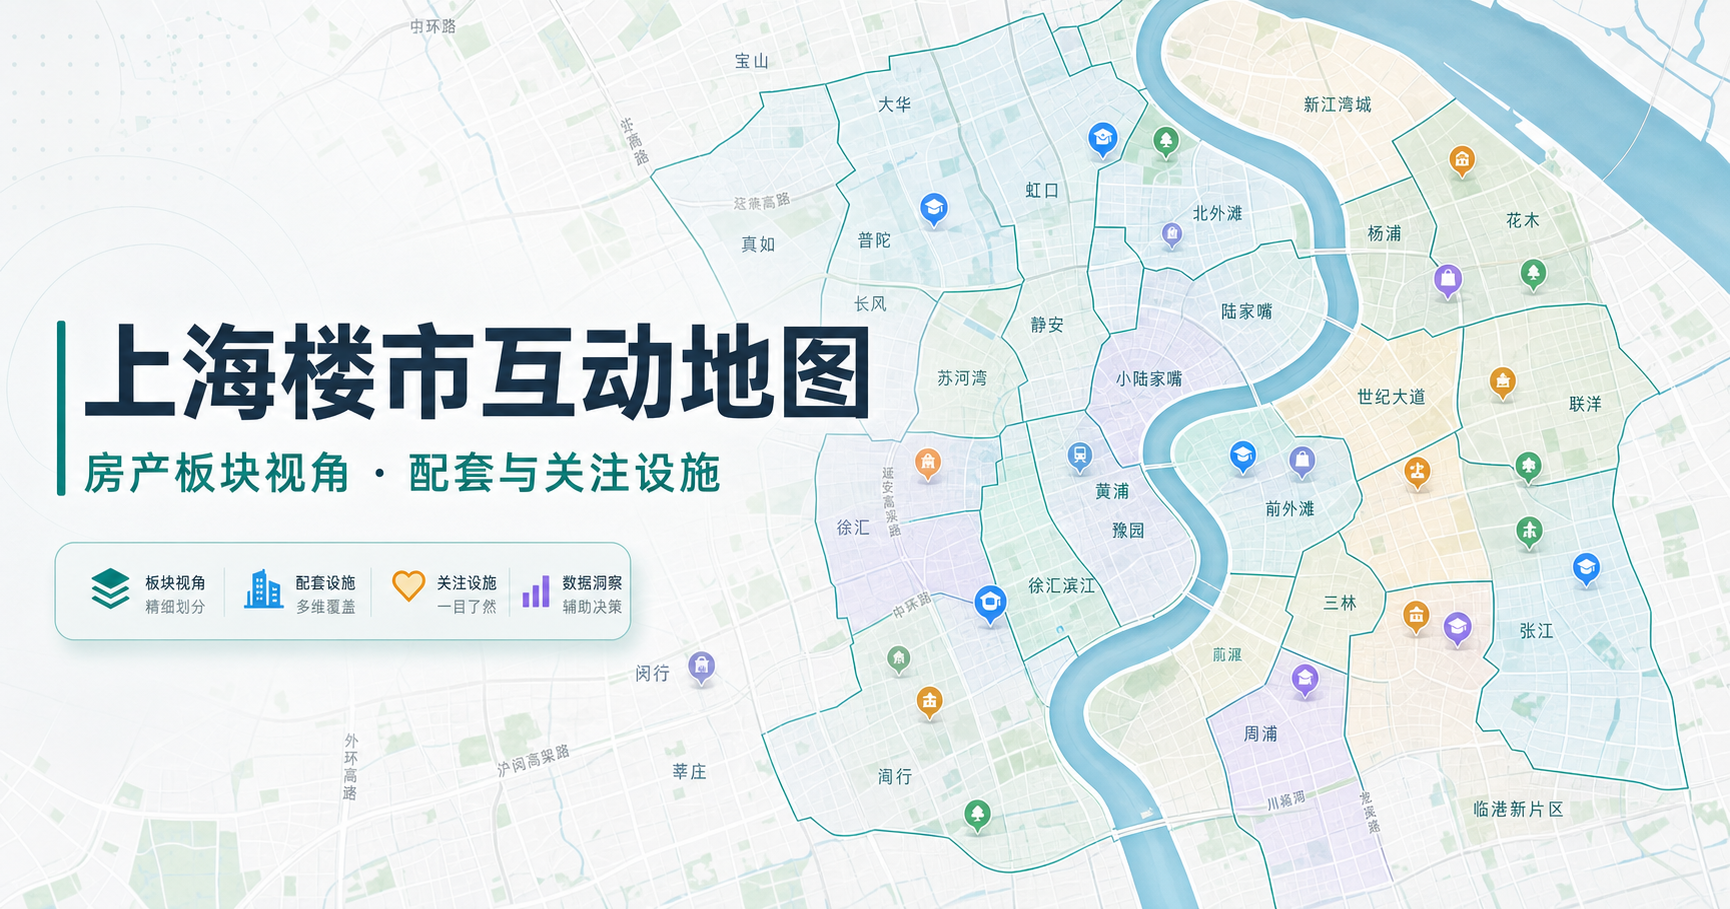
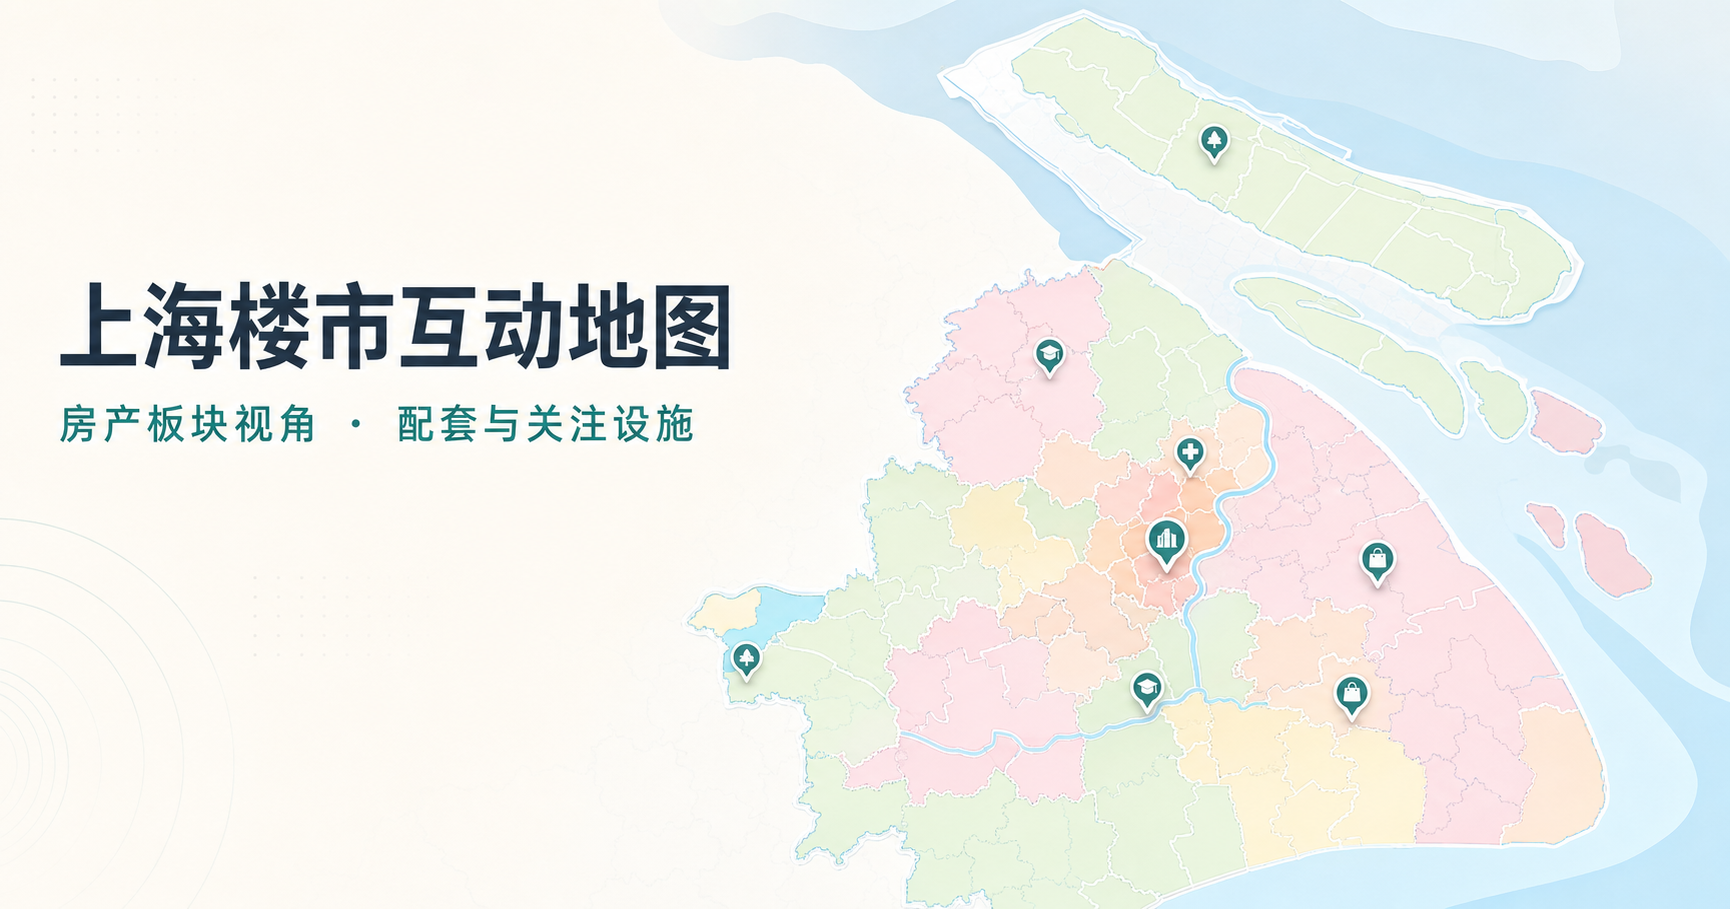
Refresh social cover with official map references

diff --git a/app/layout.tsx b/app/layout.tsx
@@ -25,7 +25,7 @@ export async function generateMetadata(): Promise<Metadata> {
     title,
     description,
     icons: { icon: "/favicon.svg", shortcut: "/favicon.svg" },
-    openGraph: { title, description, type: "website", locale: "zh_CN", images: [{ url: "/og.png", width: 1732, height: 909, alt: "上海楼市互动地图" }] },
+    openGraph: { title, description, type: "website", locale: "zh_CN", images: [{ url: "/og.png", width: 1730, height: 909, alt: "上海楼市互动地图" }] },
     twitter: { card: "summary_large_image", title, description, images: ["/og.png"] },
   };
 }
